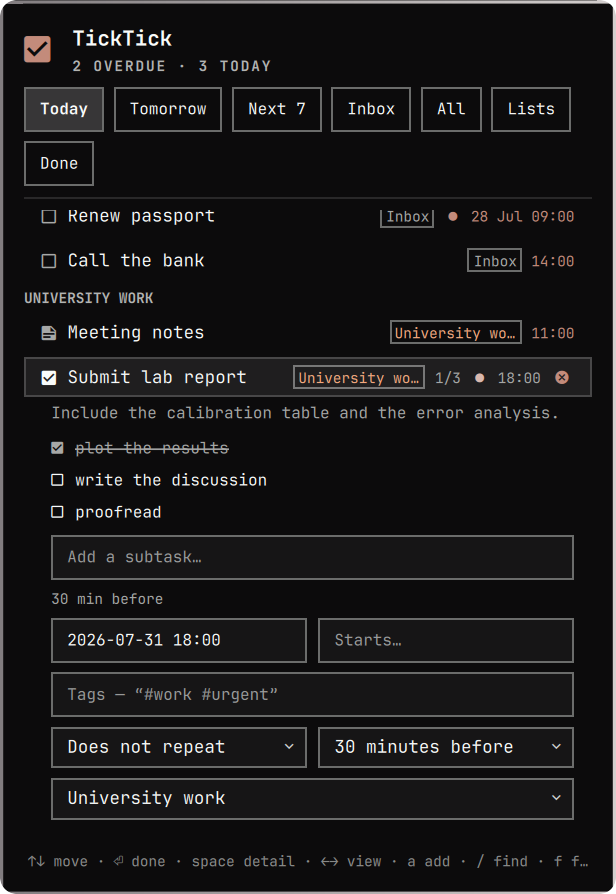
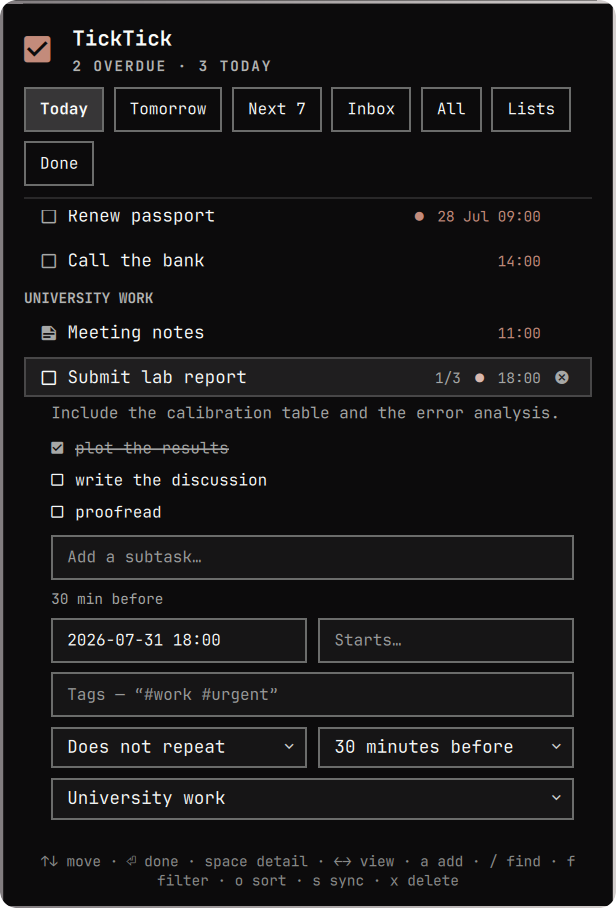
Make the checkbox say what the task is, not what the cursor would do
The box filled itself in under the cursor as a preview of what Enter would do,
which is indistinguishable from a task that is actually finished — every row you
pointed at read as already done. State is state: the box now reflects the task,
and the cursor sharpens the empty box instead of ticking it.

Finished work reads as finished for the first time: ticked, dimmed and struck
through the way a ticked subtask always has, dated by when it was completed
rather than when it was due. Completing one again is refused rather than dropping
the row and reporting a change that never happened — the Open API cannot reopen a
task, or even look one up once it is closed. The guard lives in Service.complete,
so Enter, the checkbox and IPC all get it at once.

Three more things the popup was doing to itself:

* The delete ✕ was revealed by width, and a Row drops an invisible child's width
  *and* its spacing — so the due date, the priority dot and the list chip all slid
  sideways the moment the pointer crossed the row, under a pointer that was aiming
  at one of them. It now holds its slot and fades, and it burns urgent only under
  its own pointer instead of on every row you happen to hover.
* The list name was printed twice. Under the default sort the section heading above
  a row already is its list, so the chip repeated it: INBOX over a row chipped Inbox.
  The chip now shows only where it says something new.
[…]

diff --git a/qml/TaskRow.qml b/qml/TaskRow.qml
@@ -28,7 +28,12 @@ CursorSurface {
   readonly property var row: task || ({})
   readonly property string titleText: Model.squish(row.title) || "Untitled task"
   readonly property string projectName: Model.squish(row.project)
-  readonly property string dueText: Model.squish(row.dueLabel)
+  // What a finished task's date means is when it was finished, not when it was due.
+  // `completedLabel` only exists on rows from the completed endpoint, so the due
+  // date still stands in for anything else that reads as done.
+  readonly property string dueText: root.done
+    ? (Model.squish(row.completedLabel) || Model.squish(row.dueLabel))
+    : Model.squish(row.dueLabel)
   readonly property string progressText: Model.checklistProgress(row.itemsDone, row.itemsTotal)
   readonly property int priority: Model.toInt(row.priority)
   readonly property bool overdue: Model.squish(row.bucket).toLowerCase() === "overdue"
@@ -36,6 +41,11 @@ CursorSurface {
   // A note is something to read. TickTick gives it no checkbox and no completion,
   // so the row shows a page glyph and the click that would tick it does nothing.
   readonly property bool note: Model.isNote(row)
+  // Finished work — the Done view paints it with this same delegate.
+  readonly property bool done: Model.isDone(row)
+  // Only an open to-do has anything to tick. A note cannot be completed and a
+  // finished task cannot be reopened: the Open API cannot even look one up again.
+  readonly property bool checkable: !note && !done
 
   // A project colour comes from the account, so it can be anything or nothing.
   // Anything that is not an obvious hex falls back to the theme rather than
@@ -62,10 +72,13 @@ CursorSurface {
     anchors.left: parent.left
     anchors.leftMargin: Style.spacing.rowPaddingX
     anchors.verticalCenter: parent.verticalCenter
-    // Ticks under the cursor so the row previews what Enter / a click does — but a
-    // note has nothing to preview, so it keeps its own glyph throughout.
-    text: root.note ? "" : (root.hasCursor ? "" : "")
-    color: root.note ? root.dim : (root.hasCursor ? root.foreground : root.dim)
+    // The box says what the task IS, never what the cursor would do to it. It used to
+    // tick itself under the cursor as a preview of Enter, which is indistinguishable
+    // from a task that is actually finished — every row you pointed at read as done.
+    text: root.note ? "" : (root.done ? "" : "")
+    // The cursor sharpens the empty box instead: same glyph, more contrast, which is
+    // an affordance rather than a claim about the task.
+    color: root.checkable && root.hasCursor ? root.foreground : root.dim
     font.family: root.fontFamily
     font.pixelSize: Style.font.subtitle
 
@@ -73,7 +86,7 @@ CursorSurface {
       anchors.fill: parent
       anchors.margins: -Style.spacing.sm
       hoverEnabled: true
-      enabled: !root.note
+      enabled: root.checkable
       cursorShape: enabled ? Qt.PointingHandCursor : Qt.ArrowCursor
       onContainsMouseChanged: if (containsMouse) root.hovered(true)
       onClicked: root.completeRequested()
@@ -89,9 +102,12 @@ CursorSurface {
     anchors.verticalCenter: parent.verticalCenter
     text: root.titleText
     textFormat: Text.PlainText
-    color: root.foreground
+    // Struck through and stepped back, the same way a ticked checklist item reads in
+    // the detail pane. Done work is still worth seeing; it is not worth reading twice.
+    color: root.done ? root.dim : root.foreground
     font.family: root.fontFamily
     font.pixelSize: Style.font.body
+    font.strikeout: root.done
     elide: Text.ElideRight
   }
 
@@ -169,20 +185,32 @@ CursorSurface {
 
     Item {
       id: deleteAction
-      visible: root.hasCursor
-      width: visible ? Style.space(16) : 0
+      // Always holds its slot and fades instead of appearing: a Row drops an invisible
+      // child's width AND its spacing, so revealing this on hover slid the due date,
+      // the priority dot and the chip left the moment the pointer crossed the row —
+      // under a pointer that was aiming at one of them.
+      width: Style.space(16)
       height: Style.space(16)
       anchors.verticalCenter: parent.verticalCenter
+      opacity: root.hasCursor ? 1 : 0
+
+      Behavior on opacity {
+        NumberAnimation { duration: 80 }
+      }
 
       Text {
         anchors.centerIn: parent
         text: ""
-        color: root.urgent
+        // Red only under its own pointer. Burning urgent on every row you happen to
+        // hover reads as an alarm about the task rather than an offer to delete it,
+        // and it out-shouted the overdue dates that are the actual warning.
+        color: deleteHover.containsMouse ? root.urgent : root.dim
         font.family: root.fontFamily
         font.pixelSize: Style.font.bodySmall
       }
 
       MouseArea {
+        id: deleteHover
         anchors.fill: parent
         hoverEnabled: true
         cursorShape: Qt.PointingHandCursor

diff --git a/qml/BarWidget.qml b/qml/BarWidget.qml
@@ -50,6 +50,14 @@ Panel {
 
   readonly property bool hideWhenEmpty: tt.boolSetting("hideWhenEmpty", false)
   readonly property bool showProjectChips: tt.boolSetting("showProjectChips", true)
+  // …and whether the chip is telling the reader anything. Under the default sort the
+  // section heading above the row IS the list name, and inside the Inbox or one list
+  // every row shares it — so the chip printed "Inbox" under a heading reading INBOX.
+  // TickTick does not repeat it there either.
+  readonly property bool chipsUseful: showProjectChips
+                                      && tt.effectiveSort !== "list"
+                                      && tt.view !== "inbox"
+                                      && !(tt.view === "project" && tt.projectFilter !== "")
   readonly property bool confirmDelete: tt.boolSetting("confirmDelete", true)
 
   // --- cursor / mode state ----------------------------------------------
@@ -907,7 +915,7 @@ Panel {
                     width: parent.width
                     task: entry.modelData
                     expanded: widget.expandedId === entry.rowId
-                    showProjectChip: widget.showProjectChips
+                    showProjectChip: widget.chipsUseful
                     hasCursor: entry.onCursor
                     foreground: widget.foreground
                     fontFamily: widget.fontFamily
@@ -978,7 +986,10 @@ Panel {
             font.family: widget.fontFamily
             font.pixelSize: Style.font.caption
             horizontalAlignment: Text.AlignHCenter
-            elide: Text.ElideRight
+            // Wraps rather than elides: ten shortcuts do not fit across the popup on
+            // one line, and eliding hid every one after "f filter" behind an ellipsis —
+            // a legend nobody can read is worse than one that costs a second line.
+            wrapMode: Text.WordWrap
           }
         }
       }

diff --git a/tests/model.test.js b/tests/model.test.js
@@ -96,6 +96,19 @@ test("a note is a note however the row spells it", () => {
   assert.strictEqual(Model.isNote(undefined), false)
 })
 
+// The checkbox, the strikethrough and the guard that refuses to "complete" finished
+// work all hang off this one answer. An open task reading as done is what the cursor
+// used to fake; a done task reading as open re-completes it on Enter.
+test("done is read from status or from the completed bucket", () => {
+  assert.strictEqual(Model.isDone({ status: 2 }), true)
+  assert.strictEqual(Model.isDone({ status: "2" }), true, "a row can arrive stringly typed")
+  assert.strictEqual(Model.isDone({ status: 0, bucket: "completed" }), true,
+    "the completed endpoint's rows are stamped by the helper, whatever status says")
+  assert.strictEqual(Model.isDone({ status: 0, bucket: "today" }), false)
+  assert.strictEqual(Model.isDone({}), false, "a row with no status is open")
+  assert.strictEqual(Model.isDone(undefined), false)
+})
+
 test("sections break on identity and are headed by name", () => {
   const a = { projectId: "p1", project: "Work", bucket: "today" }
   const b = { projectId: "p2", project: "Work", bucket: "today" }

diff --git a/qml/Model.js b/qml/Model.js
@@ -86,6 +86,16 @@ function isNote(row) {
   return String(r.kind || "").toUpperCase() === "NOTE"
 }
 
+// Finished work. `status` is TickTick's own flag — 0 is open, 2 is done, and the
+// abandoned states are also not open — and rows fetched from the completed endpoint
+// are stamped `bucket: "completed"` by the helper regardless of what status says.
+// Either one on its own is enough; a row that is done must never paint as open.
+function isDone(row) {
+  var r = row || {}
+  if (toInt(r.status) > 0) return true
+  return squish(r.bucket).toLowerCase() === "completed"
+}
+
 function priorityLabel(priority) {
   return PRIORITY_LABELS[toInt(priority)] || ""
 }
@@ -272,6 +282,7 @@ if (typeof module !== "undefined") {
     sectionKey: sectionKey,
     sectionLabel: sectionLabel,
     isNote: isNote,
+    isDone: isDone,
     tagList: tagList,
     tagText: tagText,
     dateSeed: dateSeed,

diff --git a/qml/Service.qml b/qml/Service.qml
@@ -238,6 +238,14 @@ Item {
       toast("Notes cannot be completed")
       return
     }
+    if (Model.isDone(row)) {
+      // The Done view paints finished work with the same delegate, so Enter on a row
+      // there lands here. Completing it again would drop it from the list and report
+      // a change that never happened — and the Open API cannot undo it either, since
+      // a closed task cannot be looked up at all.
+      toast("Already done")
+      return
+    }
     dropTask(row.id)
     toast("Completed " + Model.elide(row.title, 40))
     enqueue(["complete", row.id].concat(scopeArgs(row)))

diff --git a/CHANGELOG.md b/CHANGELOG.md
@@ -43,6 +43,25 @@ TickTick's own rules, in the bar.
 
 ### Fixed
 
+- **The checkbox no longer ticks itself under the cursor.** The box previewed what
+  <kbd>Enter</kbd> would do by filling in, which is indistinguishable from a task that is
+  actually finished — every row you pointed at read as already done. The box now says what the
+  task *is*; the cursor sharpens the empty box instead of filling it.
+- **Finished work looks finished.** A completed task renders ticked, dimmed and struck through
+  the way a ticked subtask always has, dated by when it was *completed* rather than when it was
+  due. Completing one again is refused rather than dropping the row and reporting a change that
+  never happened — the Open API cannot reopen a task or even look one up once it is closed.
+- **The row stops jumping when the pointer crosses it.** The delete ✕ was revealed by width, and
+  a `Row` drops an invisible child's width *and* its spacing, so the due date, the priority dot
+  and the list chip all slid sideways under a pointer that was aiming at one of them. The ✕ now
+  holds its slot and fades, and it burns urgent only under its own pointer instead of on every
+  row you happen to hover.
+- **The list name is not printed twice.** Under the default sort the section heading above a row
+  already *is* its list, so the chip repeated it — `INBOX` over a row chipped `Inbox`. The chip
+  now shows only where it says something new: not under list headings, not inside the Inbox, and
+  not inside a single list.
+- **Every shortcut in the hint line is readable.** Ten of them do not fit across the popup on one
+  line, and eliding hid everything after `f filter` behind an ellipsis. It wraps.
 - **Notes and single-list views no longer distort the badge.** Counts are computed over the
   whole account regardless of the view, so browsing into a list stops changing what the number
   means. Every view is still exactly one request.

diff --git a/README.md b/README.md
@@ -146,6 +146,7 @@ ticktick login --api-base https://api.dida365.com/open/v1
 |---|---|
 | Bar button | left = popup · right = refresh now · middle = jump to quick-add |
 | Task row | click the checkbox = complete · click the title = expand detail |
+| Finished row | ticked and struck through, dated by when you finished it; nothing to click, because TickTick's API cannot reopen it |
 | Expanded detail | tick a subtask · remove one with the ✕ that appears · pick a list, repeat or reminder |
 | Note row | opens like any other; it has no checkbox, because a note is not a task |
 
@@ -335,7 +336,7 @@ omarchy bar plugin set siam.ticktick hideWhenEmpty true --json
 | `defaultView` | Today / Tomorrow / Next / Inbox / All / Lists / Completed | `Today` | which view the popup opens on |
 | `defaultProject` | project id | `""` | where quick-add files tasks (blank = Inbox) |
 | `hideWhenEmpty` | bool | `false` | remove the widget from the bar when the badge is 0 |
-| `showProjectChips` | bool | `true` | show each task's project on its row |
+| `showProjectChips` | bool | `true` | show each task's project on its row, where the section heading does not already say it |
 | `includeUndated` | bool | `false` | include tasks with no due date in **All** |
 | `confirmDelete` | bool | `true` | confirm before deleting (deletion is permanent) |
 
